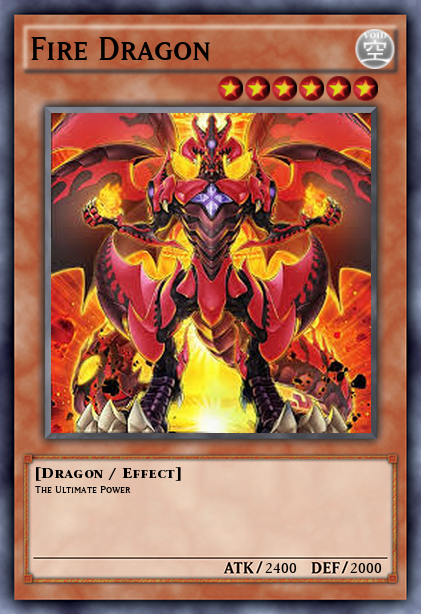
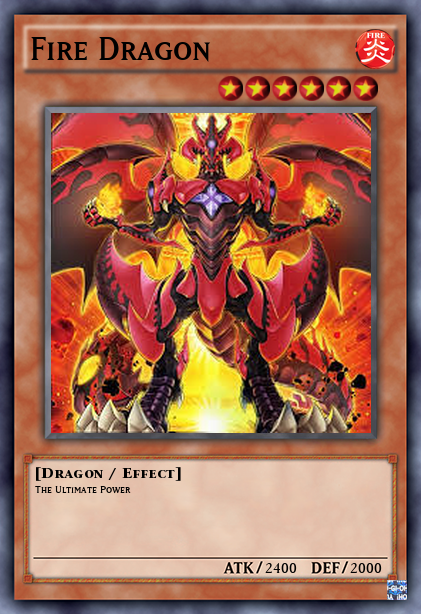
Updated 2 Version 0.1
Version 0.1

Changed region(s): [[0.8337, 0.0309, 0.9572, 0.1238], [0.8955, 0.9283, 0.9881, 0.9902]]

diff --git a/CardMaker.py b/CardMaker.py
@@ -10,42 +10,81 @@ import re
 '''
 
 # Your Card Infos
-Title       = "Fire Dragon"
-Attribute   = "Void"
-Level       = 6
-Type        = "[Dragon / Effect]"
-Description = "The Ultimate Power"
-Attack      = "2400"
-Defense     = "2000"
+card        = "Spell"
+image_card  = "TheBookofDarkness.jpg"
+
+Title       = "The Dark Book"
+Attribute   = "Spell"
+
+Level       = 0
+lvlcolor    = "red"
+
+Type        = "[Spell]"
+Description = "A Book full of Darkness"
+
+Attack      = ""
+Defense     = ""
 
 class DrawImage():
     global image_with_text
     global image
     global draw
 
-    source_card = "Card-effect.png"
-    image = Image.open(souce_path + source_card).convert('RGBA')
-    image_with_text = Image.new('RGBA', image.size, (255,255,255,0))
-    draw = ImageDraw.Draw(image_with_text)
-    image_width = image.size[0]
-    image_height = image.size[1]
-
-    print("Source Image: " + source_card)
+    if card == "Effect":
+        source_card = "Card-effect.png"
+        image = Image.open(souce_path + path_cards + source_card).convert('RGBA')
+        image_with_text = Image.new('RGBA', image.size, (255,255,255,0))
+        draw = ImageDraw.Draw(image_with_text)
+        image_width = image.size[0]
+        image_height = image.size[1]
+        print("Source Image: " + source_card)
+    elif card == "Trap":
+        source_card = "Card-trap.png"
+        image = Image.open(souce_path + path_cards + source_card).convert('RGBA')
+        image_with_text = Image.new('RGBA', image.size, (255,255,255,0))
+        draw = ImageDraw.Draw(image_with_text)
+        image_width = image.size[0]
+        image_height = image.size[1]
+        print("Source Image: " + source_card)
+    elif card == "Spell":
+        source_card = "Card-spell.png"
+        image = Image.open(souce_path + path_cards + source_card).convert('RGBA')
+        image_with_text = Image.new('RGBA', image.size, (255,255,255,0))
+        draw = ImageDraw.Draw(image_with_text)
+        image_width = image.size[0]
+        image_height = image.size[1]
+        print("Source Image: " + source_card)
 
 class DrawLevelImage():
-    level_image = "Level-Red.png"
-    level_file = Image.open(souce_path + level_image)
-    level_file.resize((8,8),Image.ANTIALIAS)
-    for i in range(Level):
-        area_x = area_x - 27
-        area = area_x, area_y
-        image_with_text.paste(level_file, area) 
+    if lvlcolor == "red":
+        level_image = "Level-Red.png"
+        level_file = Image.open(souce_path + path_lvl + level_image)
+        lvl_img = level_file.resize((25,25),Image.ANTIALIAS)
+        for i in range(Level):
+            area_x = area_x - 27
+            area = area_x, area_y
+            image_with_text.paste(lvl_img, area)
+    elif lvlcolor == "blue":
+        level_image = "Level-Blue.png"
+        level_file = Image.open(souce_path + path_lvl + level_image)
+        lvl_img = level_file.resize((25,25),Image.ANTIALIAS)
+        for i in range(Level):
+            area_x = area_x - 27
+            area = area_x, area_y
+            image_with_text.paste(lvl_img, area)  
+    elif lvlcolor == "green":
+        level_image = "Level-Green.png"
+        level_file = Image.open(souce_path + path_lvl + level_image)
+        lvl_img = level_file.resize((25,25),Image.ANTIALIAS)
+        for i in range(Level):
+            area_x = area_x - 27
+            area = area_x, area_y
+            image_with_text.paste(lvl_img, area)  
 
 class DrawImageCard():
-    image_card = "firedragon.jpg"
     area = 51, 113 
 
-    card_image = Image.open(souce_path + image_card)
+    card_image = Image.open(souce_path + path_cardimg + image_card)
     card = card_image.resize((320,320),Image.ANTIALIAS)
     image_with_text.paste(card, area)
     print("Card Image: " + image_card + "\n")
@@ -85,18 +124,93 @@ class DrawText():
 class DrawCardType():
     if Attribute == "Void":
         attribute_image = "Void.png"
-        attribute_path = Image.open(souce_path + attribute_image)
+        attribute_path = Image.open(souce_path + path_type + attribute_image)
+        attribute_img = attribute_path.resize((40,40),Image.ANTIALIAS)
         area_x = 355
         area_y = 29
         area = area_x, area_y
-        image_with_text.paste(attribute_path, area)
+        image_with_text.paste(attribute_img, area)
     elif Attribute == "Time":
         attribute_image = "Time.png"
-        attribute_path = Image.open(souce_path + attribute_image)
+        attribute_path = Image.open(souce_path + path_type + attribute_image)
+        attribute_img = attribute_path.resize((40,40),Image.ANTIALIAS)
         area_x = 355
         area_y = 29
         area = area_x, area_y
-        image_with_text.paste(attribute_path, area)  
+        image_with_text.paste(attribute_img, area)
+    elif Attribute == "Trap":
+        attribute_image = "Trap.png"
+        attribute_path = Image.open(souce_path + path_type + attribute_image)
+        attribute_img = attribute_path.resize((40,40),Image.ANTIALIAS)
+        area_x = 355
+        area_y = 29
+        area = area_x, area_y
+        image_with_text.paste(attribute_img, area)
+    elif Attribute == "Spell":
+        attribute_image = "Spell.png"
+        attribute_path = Image.open(souce_path + path_type + attribute_image)
+        attribute_img = attribute_path.resize((40,40),Image.ANTIALIAS)
+        area_x = 355
+        area_y = 29
+        area = area_x, area_y
+        image_with_text.paste(attribute_img, area) 
+    elif Attribute == "Wind":
+        attribute_image = "Wind.png"
+        attribute_path = Image.open(souce_path + path_type + attribute_image)
+        attribute_img = attribute_path.resize((40,40),Image.ANTIALIAS)
+        area_x = 355
+        area_y = 29
+        area = area_x, area_y
+        image_with_text.paste(attribute_img, area) 
+    elif Attribute == "Light":
+        attribute_image = "Light.png"
+        attribute_path = Image.open(souce_path + path_type + attribute_image)
+        attribute_img = attribute_path.resize((40,40),Image.ANTIALIAS)
+        area_x = 355
+        area_y = 29
+        area = area_x, area_y
+        image_with_text.paste(attribute_img, area)    
+    elif Attribute == "Fire":
+        attribute_image = "Fire.png"
+        attribute_path = Image.open(souce_path + path_type + attribute_image)
+        attribute_img = attribute_path.resize((40,40),Image.ANTIALIAS)
+        area_x = 355
+        area_y = 29
+        area = area_x, area_y
+        image_with_text.paste(attribute_img, area) 
+    elif Attribute == "Earth":
+        attribute_image = "Earth.png"
+        attribute_path = Image.open(souce_path + path_type + attribute_image)
+        attribute_img = attribute_path.resize((40,40),Image.ANTIALIAS)
+        area_x = 355
+        area_y = 29
+        area = area_x, area_y
+        image_with_text.paste(attribute_img, area) 
+    elif Attribute == "Divine":
+        attribute_image = "Divine.png"
+        attribute_path = Image.open(souce_path + path_type + attribute_image)
+        attribute_img = attribute_path.resize((40,40),Image.ANTIALIAS)
+        area_x = 355
+        area_y = 29
+        area = area_x, area_y
+        image_with_text.paste(attribute_img, area)
+    elif Attribute == "Dark":
+        attribute_image = "Dark.png"
+        attribute_path = Image.open(souce_path + path_type + attribute_image)
+        attribute_img = attribute_path.resize((40,40),Image.ANTIALIAS)
+        area_x = 355
+        area_y = 29
+        area = area_x, area_y
+        image_with_text.paste(attribute_img, area)
+
+class cornersign():
+    corner_img = "Cornerdefault.png"
+    attribute_path = Image.open(souce_path + path_extras + corner_img)
+    attribute_img = attribute_path.resize((20,20),Image.ANTIALIAS)
+    area_x = 387
+    area_y = 580
+    area = area_x, area_y
+    image_with_text.paste(attribute_img, area)
 
 out = Image.alpha_composite(image, image_with_text)
 out.show()

diff --git a/Card-Preview.py b/Card-Preview.py
@@ -1,11 +1,25 @@
 from ursina import *
 
 app = Ursina()
+tetu = "output/The_Dark_Book.png"
+
 
 rotation_resetter = Entity()
-cube = Entity(parent=rotation_resetter, model='cube', scale=(0,6,4), texture='output/Fire_Dragon.png')
-button  = Button(text="Back", scale=(0.2,0.1), position=(-0.75,0))
-button1 = Button(text="Next", scale=(0.2,0.1), position=(0.75,0))
+
+cube = Entity(parent=rotation_resetter, model='cube', scale=(0,6,4), texture=tetu)
+
+class tetu1:
+
+    def tetu2():
+        print("Success")
+        cube = Entity(parent=rotation_resetter, model='cube', scale=(0,6,4), texture="output/Fire_Dragon.png")
+        cube.enable
+
+button  = Button(text="<", scale=(0.2,0.1), position=(-0.75,0))
+button1 = Button(text=">", scale=(0.2,0.1), position=(0.75,0))
+button1.on_click = tetu1.tetu2
+button1.on_click = cube.disable
+
 def update():
     rotation_resetter.rotation_y += 50 * time.dt
 

diff --git a/_config.py b/_config.py
@@ -1,4 +1,11 @@
-souce_path = "img/"
+souce_path   = "img/"
+path_cards   = "cards/"
+path_type    = "type/"
+path_lvl     = "lvl/"
+path_cardimg = "cardimages/"
+path_rarity  = "rarity/"
+path_extras  = "extras/"
+
 i = 0
 area_x = 380
 area_y = 76
